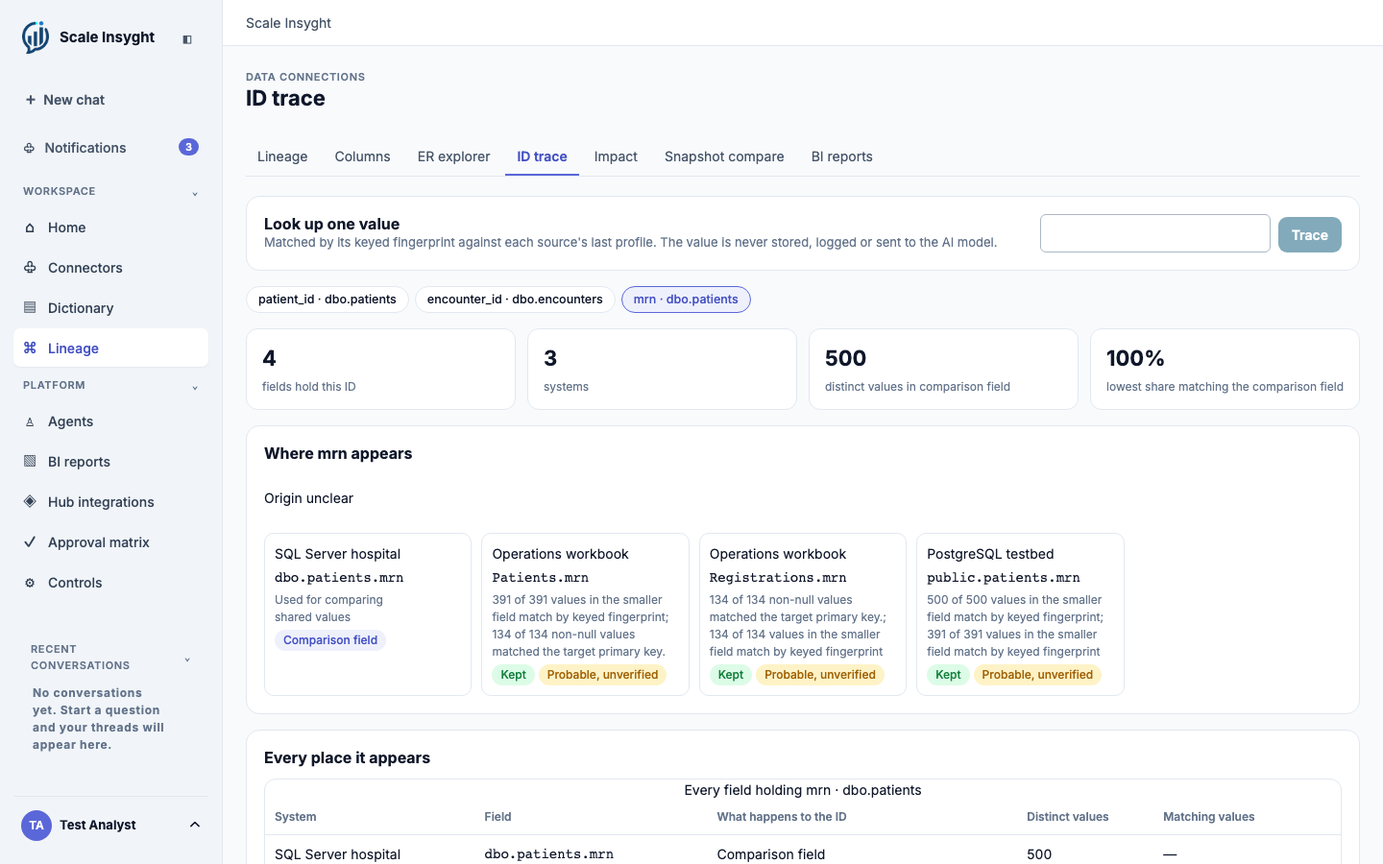
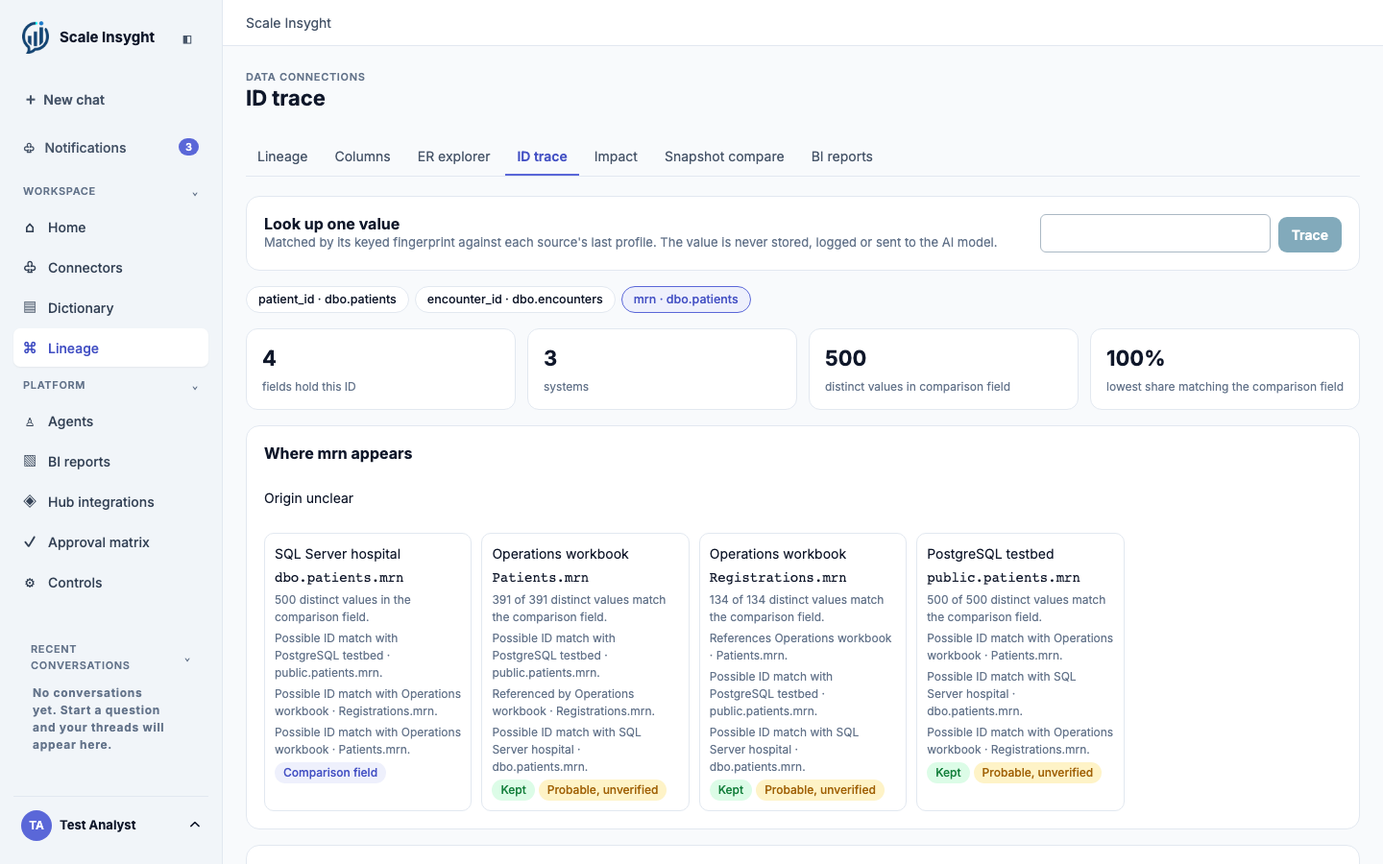
Report actual refresh changes and show field-specific ID evidence

Changed region(s): [[0.1875, 0.6844, 0.8125, 0.9956], [0.1875, 0.9333, 0.2812, 0.9956], [0.8438, 0.9333, 0.9062, 0.9644]]

diff --git a/packages/profiler/src/findings.ts b/packages/profiler/src/findings.ts
@@ -36,10 +36,12 @@ export async function readProfileState(pool: Pool, tenantId: string, connectionI
 /** Compares the state after a run with the state before it and records one finding per change (decision 48): new and
  * dropped tables, added, removed or retyped columns, large row-count changes, newly inferred sensitive columns, and
  * probable relationships and ID matches not yet reviewed. Only names and counts are stored, never values. */
-export async function recordFindings(pool: Pool, input: { tenantId: string; connectionId: string; jobId: string; before: ProfileState; scannedObjects: Set<string> }): Promise<number> {
+export async function recordFindings(pool: Pool, input: { tenantId: string; connectionId: string; jobId: string; before: ProfileState; scannedObjects: Set<string>; checked: number }): Promise<number> {
   const after = await readProfileState(pool, input.tenantId, input.connectionId);
   return withTenant(pool, input.tenantId, async (client) => {
     let count = 0;
+    const changed = new Set<string>();
+    let checked=input.checked;
     const add = async (kind: string, subject: string, detail: Record<string, unknown>, assetId: string | null, assertionId: string | null = null) => {
       const inserted = await client.query(
         `INSERT INTO profiler.findings(tenant_id,connection_id,job_id,kind,subject,detail,asset_id,assertion_id) VALUES($1,$2,$3,$4,$5,$6::jsonb,$7,$8) ON CONFLICT DO NOTHING`,
@@ -49,13 +51,15 @@ export async function recordFindings(pool: Pool, input: { tenantId: string; conn
     if (input.before.hadProfile) {
       for (const [name, table] of after.datasets) {
         const previous = input.before.datasets.get(name);
-        if (!previous) { await add('new_tables', name, { columns: table.columns.length, rows: table.rowCount }, table.assetId); continue; }
+        if (!previous) { changed.add(name); await add('new_tables', name, { columns: table.columns.length, rows: table.rowCount }, table.assetId); continue; }
         if (!input.scannedObjects.has(name)) continue; // unchanged objects are skipped by a nightly run
         const before = new Map(previous.columns.map((column) => [column.name, column.data_type]));
         const now = new Map(table.columns.map((column) => [column.name, column.data_type]));
         const added = [...now.keys()].filter((column) => !before.has(column));
         const removed = [...before.keys()].filter((column) => !now.has(column));
         const retyped = [...now.keys()].filter((column) => before.has(column) && before.get(column) !== now.get(column)).map((column) => ({ column, from: before.get(column), to: now.get(column) }));
+        if (added.length || removed.length || retyped.length ||
+          (previous.rowCount !== null && table.rowCount !== null && previous.rowCount !== table.rowCount)) changed.add(name);
         if (added.length || removed.length || retyped.length) await add('schema_change', name, { change: 'columns', added, removed, retyped }, table.assetId);
         if (table.rowCount === null) {
           await add('data_anomaly', name, { change: 'count_unavailable' }, table.assetId);
@@ -64,7 +68,11 @@ export async function recordFindings(pool: Pool, input: { tenantId: string; conn
           if (Math.abs(change) >= ROW_CHANGE_MIN && Math.abs(change) >= ROW_CHANGE_SHARE * Math.max(previous.rowCount, 1)) await add('data_anomaly', name, { change: 'row_count', before: previous.rowCount, after: table.rowCount }, table.assetId);
         }
       }
-      for (const [name, table] of input.before.datasets) if (!after.datasets.has(name)) await add('schema_change', name, { change: 'dropped' }, table.assetId);
+      for (const [name, table] of input.before.datasets) if (!after.datasets.has(name)) {
+        checked++;
+        changed.add(name);
+        await add('schema_change', name, { change: 'dropped' }, table.assetId);
+      }
     }
     // Newly inferred sensitive columns, to confirm or dismiss. Declared tags need no review.
     const fieldIds = await client.query<{ asset_id: string; qualified_name: string }>(
@@ -88,6 +96,8 @@ export async function recordFindings(pool: Pool, input: { tenantId: string; conn
       await add(row.relationship_type === 'SAME_AS' ? 'id_match' : 'probable_relationship', `${row.from_name} → ${row.to_name}`,
         { confidence: row.confidence === null ? null : Number(row.confidence), explanation: row.explanation }, null, row.assertion_id);
     }
+    await client.query('UPDATE profiler.jobs SET checked_count=$3,changed_count=$4 WHERE tenant_id=$1 AND job_id=$2',
+      [input.tenantId,input.jobId,checked,input.before.hadProfile ? changed.size : null]);
     return count;
   });
 }
@@ -95,7 +105,7 @@ export async function recordFindings(pool: Pool, input: { tenantId: string; conn
 export type FindingRow = { findingId: string; connectionId: string; sourceName: string; jobId: string; jobType: string; kind: string; subject: string; detail: Record<string, unknown>; foundAt: string; status: string; decidedAt: string | null };
 
 /** Findings for the Approval matrix with the latest nightly run's summary. */
-export async function listFindings(pool: Pool, tenantId: string): Promise<{ findings: FindingRow[]; lastNight: { jobIds: string[]; scheduled: boolean; startedAt: string | null; connections: number; profiled: number; listed: number } }> {
+export async function listFindings(pool: Pool, tenantId: string): Promise<{ findings: FindingRow[]; lastNight: { jobIds: string[]; scheduled: boolean; startedAt: string | null; connections: number; profiled: number; listed: number; checked: number | null; changed: number | null } }> {
   return withTenant(pool, tenantId, async (client) => {
     const rows = await client.query<{ finding_id: string; connection_id: string; source_name: string; job_id: string; job_type: string | null; kind: string; subject: string; detail: Record<string, unknown>; found_at: Date; status: string; decided_at: Date | null }>(
       `SELECT f.finding_id,f.connection_id,coalesce(nullif(c.display_name,''),c.connector_type) AS source_name,f.job_id,j.job_type,f.kind,f.subject,f.detail ||
@@ -112,14 +122,16 @@ export async function listFindings(pool: Pool, tenantId: string): Promise<{ find
        LEFT JOIN registry.connections tc ON tc.tenant_id=ta.tenant_id AND tc.connection_id=ta.source_id
        LEFT JOIN profiler.jobs j ON j.tenant_id=f.tenant_id AND j.job_id=f.job_id WHERE f.tenant_id=$1 ORDER BY f.found_at DESC,f.subject LIMIT 500`, [tenantId]);
     // "Last night" is the most recent nightly run of each connection within a day of the newest one.
-    const nightly = await client.query<{ job_id: string; scheduled: boolean; created_at: Date; listed_count: number | null; profiled_count: number | null }>(
+    const nightly = await client.query<{ job_id: string; scheduled: boolean; created_at: Date; listed_count: number | null; profiled_count: number | null; checked_count: number | null; changed_count: number | null }>(
       `WITH newest AS (SELECT scheduled FROM profiler.jobs WHERE tenant_id=$1 AND job_type='nightly' AND state='COMPLETED' ORDER BY created_at DESC LIMIT 1),
-       latest AS(SELECT DISTINCT ON (connection_id) job_id,scheduled,created_at,listed_count,profiled_count FROM profiler.jobs WHERE tenant_id=$1 AND job_type='nightly' AND state='COMPLETED' AND scheduled=(SELECT scheduled FROM newest) ORDER BY connection_id,created_at DESC)
+       latest AS(SELECT DISTINCT ON (connection_id) job_id,scheduled,created_at,listed_count,profiled_count,checked_count,changed_count FROM profiler.jobs WHERE tenant_id=$1 AND job_type='nightly' AND state='COMPLETED' AND scheduled=(SELECT scheduled FROM newest) ORDER BY connection_id,created_at DESC)
        SELECT * FROM latest WHERE created_at>=(SELECT max(created_at) FROM latest)-interval '1 day' ORDER BY created_at`, [tenantId]);
     return {
       findings: rows.rows.map((row) => ({ findingId: row.finding_id, connectionId: row.connection_id, sourceName: row.source_name, jobId: row.job_id, jobType: row.job_type ?? 'profile', kind: row.kind, subject: row.subject, detail: row.detail,
         foundAt: row.found_at.toISOString(), status: row.status, decidedAt: row.decided_at?.toISOString() ?? null })),
       lastNight: { scheduled: nightly.rows.at(-1)?.scheduled ?? false, jobIds: nightly.rows.map((row) => row.job_id), startedAt: nightly.rows.at(-1)?.created_at.toISOString() ?? null, connections: nightly.rows.length,
+        checked: nightly.rows.length && nightly.rows.every(row=>row.checked_count!==null) ? nightly.rows.reduce((sum,row)=>sum+row.checked_count!,0) : null,
+        changed: nightly.rows.length && nightly.rows.every(row=>row.changed_count!==null) ? nightly.rows.reduce((sum,row)=>sum+row.changed_count!,0) : null,
         profiled: nightly.rows.reduce((total, row) => total + Number(row.profiled_count ?? 0), 0), listed: nightly.rows.reduce((total, row) => total + Number(row.listed_count ?? 0), 0) },
     };
   });

diff --git a/apps/web/src/findings.tsx b/apps/web/src/findings.tsx
@@ -2,7 +2,7 @@ import React, { useState } from 'react';
 import { Badge, Button, EmptyState, Table } from '@scaleinsyght/ui';
 
 export type Finding = { findingId: string; connectionId: string; sourceName: string; jobId: string; jobType: string; kind: string; subject: string; detail: Record<string, unknown>; foundAt: string; status: string; decidedAt: string | null };
-export type Findings = { findings: Finding[]; lastNight: { jobIds: string[]; scheduled: boolean; startedAt: string | null; connections: number; profiled: number; listed: number } };
+export type Findings = { findings: Finding[]; lastNight: { jobIds: string[]; scheduled: boolean; startedAt: string | null; connections: number; profiled: number; listed: number; checked?: number | null; changed?: number | null } };
 
 const KIND: Record<string, { label: string; tone: 'primary' | 'good' | 'warn' | 'bad' | 'muted' }> = {
   schema_change: { label: 'Schema change', tone: 'bad' }, data_anomaly: { label: 'Data anomaly', tone: 'warn' }, new_tables: { label: 'New table', tone: 'primary' },
@@ -53,11 +53,14 @@ export function FindingsPanel(props: { data: Findings; decide: (findingId: strin
   const [busy, setBusy] = useState('');
   const [refreshing, setRefreshing] = useState(false);
   const [refreshError, setRefreshError] = useState('');
-  const [group, setGroup] = useState<'Changes' | 'Suggestions'>('Changes');
+  const [selectedGroup, setGroup] = useState<'Changes' | 'Suggestions' | null>(null);
   const lastNight = new Set(props.data.lastNight.jobIds);
-  const shown = props.data.findings.filter((finding) => findingGroup(finding.kind) === group).filter((finding) => tab === 'all' || (tab === 'night' ? lastNight.has(finding.jobId) : !lastNight.has(finding.jobId)));
-  const nightFindings = props.data.findings.filter((finding) => lastNight.has(finding.jobId));
-  const alerts = props.data.findings.filter((finding) => finding.status === 'open').length;
+  const eligible = props.data.findings.filter(finding => tab === 'all' || (tab === 'night' ? lastNight.has(finding.jobId) : !lastNight.has(finding.jobId)));
+  const changes = eligible.filter(finding => findingGroup(finding.kind) === 'Changes');
+  const suggestions = eligible.filter(finding => findingGroup(finding.kind) === 'Suggestions');
+  const group = selectedGroup ?? (changes.length || !suggestions.length ? 'Changes' : 'Suggestions');
+  const shown = group === 'Changes' ? changes : suggestions;
+  const open = (items: Finding[]) => items.filter(finding => finding.status === 'open').length;
   const act = async (findingId: string, decision: 'approved' | 'rejected') => { setBusy(findingId); try { await props.decide(findingId, decision); } finally { setBusy(''); } };
   const pending = shown.filter(finding => finding.status === 'open');
   const approveGroup = async () => {
@@ -69,10 +72,12 @@ export function FindingsPanel(props: { data: Findings; decide: (findingId: strin
   return <div className="findings">
     <article className="nightly-summary">
       <div><h2>{props.data.lastNight.scheduled ? "Last night's run" : 'Latest refresh'}</h2>{props.data.lastNight.startedAt
-        ? <p>{count(props.data.lastNight.connections)} {props.data.lastNight.connections === 1 ? 'source' : 'sources'} refreshed at {new Date(props.data.lastNight.startedAt).toLocaleString('en-US', { dateStyle: 'medium', timeStyle: 'short' })}: {count(props.data.lastNight.profiled)} objects profiled of {count(props.data.lastNight.listed)} listed.</p>
+        ? <p>{count(props.data.lastNight.connections)} {props.data.lastNight.connections === 1 ? 'source' : 'sources'} refreshed at {new Date(props.data.lastNight.startedAt).toLocaleString('en-US', { dateStyle: 'medium', timeStyle: 'short' })}: {props.data.lastNight.checked == null ? 'Comparison counts unavailable' : `${count(props.data.lastNight.checked)} objects checked, ${props.data.lastNight.changed == null ? 'change count unavailable' : `${count(props.data.lastNight.changed)} changed`}`}.</p>
         : <p>No nightly refresh has run yet. Each source is refreshed once a day after it is added.</p>}</div>
-      <Badge tone={alerts ? 'bad' : 'good'}>{alerts} open {alerts === 1 ? 'alert' : 'alerts'}</Badge>
-      <div className="nightly-stats"><div><strong>{count(nightFindings.length)}</strong><span>findings in this refresh</span></div><div><strong>{count(alerts)}</strong><span>waiting for review</span></div><div><strong>{count(props.data.findings.filter((finding) => finding.status !== 'open').length)}</strong><span>reviewed</span></div></div>
+      <div className="nightly-stats">
+        <Badge tone="warn">{count(open(changes))} Changes to review</Badge>
+        <Badge tone="muted">{count(open(suggestions))} Suggestions</Badge>
+      </div>
       {props.refreshNow && <Button size="small" disabled={refreshing} onClick={() => {
         setRefreshing(true); setRefreshError('');
         props.refreshNow!().catch((error: unknown) => setRefreshError(error instanceof Error ? error.message : 'The refresh could not be completed.')).finally(() => setRefreshing(false));
@@ -81,16 +86,16 @@ export function FindingsPanel(props: { data: Findings; decide: (findingId: strin
     </article>
     <p>Approving a finding records your review and leaves its verification status unchanged.</p>
     <div className="findings-tabs" role="tablist" aria-label="Findings">{([['night', 'Latest refresh'], ['earlier', 'Earlier'], ['all', 'All']] as const).map(([key, label]) =>
-      <Button key={key} role="tab" size="small" aria-selected={tab === key} className={`findings-tab${tab === key ? ' on' : ''}`} onClick={() => setTab(key)}>{label}</Button>)}</div>
+      <Button key={key} role="tab" size="small" aria-selected={tab === key} className={`findings-tab${tab === key ? ' on' : ''}`} onClick={() => {setTab(key);setGroup(null);}}>{label}</Button>)}</div>
     <div role="tablist" aria-label="Finding group">
-      {(['Changes', 'Suggestions'] as const).map(name => <Button key={name} role="tab" aria-selected={name === group} onClick={() => setGroup(name)}>{name}</Button>)}
+      {(['Changes', 'Suggestions'] as const).map(name => <Button key={name} role="tab" aria-selected={name === group} onClick={() => setGroup(name)}>{name} {count(name === 'Changes' ? changes.length : suggestions.length)}</Button>)}
     </div>
-    <Button size="small" disabled={Boolean(busy) || !pending.length} onClick={() => void approveGroup()}>Approve all {group.toLowerCase()}</Button>
+    {pending.length>0&&<Button size="small" disabled={Boolean(busy)} onClick={() => void approveGroup()}>Approve all {group.toLowerCase()}</Button>}
     {shown.length ? <Table caption="Findings" headers={['Finding', 'Kind', 'When found', 'Affects', '']} rows={shown.map((finding) => [
       <span key="t">{findingText(finding)}</span>, <Badge key="k" tone={KIND[finding.kind]?.tone ?? 'muted'}>{KIND[finding.kind]?.label ?? finding.kind}</Badge>,
       new Date(finding.foundAt).toLocaleString('en-US', { dateStyle: 'medium', timeStyle: 'short' }), findingSources(finding),
       finding.status === 'open' ? <span key="a" className="findings-actions"><Button size="small" variant="primary" disabled={Boolean(busy)} onClick={() => void act(finding.findingId, 'approved')}>{finding.kind === 'sensitive_column' ? 'Confirm' : 'Approve'}</Button><Button size="small" disabled={Boolean(busy)} onClick={() => void act(finding.findingId, 'rejected')}>{finding.kind === 'sensitive_column' ? 'Dismiss' : 'Reject'}</Button></span>
         : <Badge key="s" tone={finding.status === 'approved' ? 'good' : 'muted'}>{finding.status === 'approved' ? (finding.kind === 'sensitive_column' ? 'Confirmed' : 'Approved') : (finding.kind === 'sensitive_column' ? 'Dismissed' : 'Rejected')}</Badge>])} />
-      : <EmptyState title={tab === 'night' ? 'Nothing found in this refresh' : 'No findings here'} description="Findings appear when a refresh finds a schema change, a large row-count change, a new table, a sensitive column, a probable relationship or an ID match." />}
+      : <EmptyState title={`No ${group.toLowerCase()}${tab === 'night' ? ' in this refresh' : ''}`} description="Findings appear when a refresh finds a schema change, a large row-count change, a new table, a sensitive column, a probable relationship or an ID match." />}
   </div>;
 }

diff --git a/packages/graph/src/id-trace.ts b/packages/graph/src/id-trace.ts
@@ -19,7 +19,8 @@ export async function listIdEntities(pool: Pool, tenantId: string): Promise<IdEn
        FROM graph.id_fields i JOIN graph.assets a ON a.tenant_id=i.tenant_id AND a.asset_id=i.asset_id AND a.active
        JOIN registry.connections c ON c.tenant_id=a.tenant_id AND c.connection_id=a.source_id AND c.status='active'
        WHERE i.tenant_id=$1 AND i.active ORDER BY i.field_name`, [tenantId]);
-    const ids = fields.rows.map((row) => row.asset_id);
+    const fieldById = new Map(fields.rows.map(field => [field.asset_id, field]));
+    const ids = [...fieldById.keys()];
     const links = await client.query<{ from_id: string; to_id: string; relationship_type: string; method: string; explanation: string | null; confidence: string | null }>(
       `SELECT r.from_asset_id AS from_id,r.to_asset_id AS to_id,r.relationship_type,a.evidence_method AS method,a.explanation,a.confidence_score::text AS confidence
        FROM graph.relationships r JOIN graph.assertions a ON a.tenant_id=r.tenant_id AND a.relationship_id=r.relationship_id AND a.valid_to IS NULL AND a.review_status NOT IN ('rejected','stale')
@@ -55,7 +56,15 @@ export async function listIdEntities(pool: Pool, tenantId: string): Promise<IdEn
             // Inside a source fields are joined by trusted references; reaching another source always crosses a probable match.
             probable: row.source_id !== home.source_id,
             sharedWithHome: row.format_pattern === 'too_many_values' ? null : sharedBy.get(row.asset_id) ?? 0,
-            evidence: evidence.map((link) => ({ method: link.relationship_type === 'SAME_AS' ? `${link.method} SAME_AS` : `${link.method} reference`, explanation: link.explanation, confidence: link.confidence === null ? null : Number(link.confidence) })) };
+            evidence: evidence.map(link => {
+              const other = fieldById.get(link.from_id === row.asset_id ? link.to_id : link.from_id)!;
+              const target = `${other.source_name} · ${other.field_name}`;
+              const method = link.relationship_type === 'SAME_AS' ? `${link.method} SAME_AS` : `${link.method} reference`;
+              const explanation = link.relationship_type === 'SAME_AS'
+                ? `Possible ID match with ${target}.`
+                : link.from_id === row.asset_id ? `References ${target}.` : `Referenced by ${target}.`;
+              return {method, explanation, confidence: link.confidence === null ? null : Number(link.confidence)};
+            }) };
         }).sort((a, b) => Number(b.role === 'created') - Number(a.role === 'created') || a.sourceName.localeCompare(b.sourceName) || a.field.localeCompare(b.field)) });
     }
     return entities.sort((a, b) => b.fields.length - a.fields.length || a.label.localeCompare(b.label));

diff --git a/tests/e2e/real-product-s5-id-trace.spec.ts b/tests/e2e/real-product-s5-id-trace.spec.ts
@@ -39,6 +39,25 @@ test('s5_id_trace_groups_patient_encounter_and_mrn_ids_across_three_systems_and_
     await page.locator('.id-picker .ui-button').filter({ hasText: new RegExp(`^${expected.fields[0]!.field.split('.').at(-1)!} · `) }).click();
     await expect(page.locator('.id-tiles div').filter({ hasText: 'fields hold this ID' }).locator('b')).toHaveText(String(expected.fields.length));
     const table = page.locator('.lineage-detail table');
+    const cards = page.locator('.id-path li');
+    const comparison = cards.filter({has:page.getByText('Comparison field',{exact:true})});
+    const sourceLabels: Record<string,string> = {postgres:'PostgreSQL testbed',sql_server:'SQL Server hospital',excel:'Operations workbook'};
+    const homeSourceName=await comparison.locator('.faint').textContent();
+    const homeSource=Object.keys(sourceLabels).find(source=>sourceLabels[source]===homeSourceName);
+    const homeKey=`${homeSource}:${await comparison.locator('code').textContent()}`;
+    await expect(cards).toHaveCount(expected.fields.length);
+    for (const field of expected.fields) {
+      const card = cards.filter({has:page.locator('code').and(page.getByText(field.field,{exact:true}))})
+        .filter({has:page.getByText(sourceLabels[field.source]!,{exact:true})});
+      const fieldKey=`${field.source}:${field.field}`;
+      const distinct=field.distinct.toLocaleString('en-US');
+      const pair=expected.pairs.find(item=>(item.left===homeKey&&item.right===fieldKey)||(item.right===homeKey&&item.left===fieldKey));
+      if (fieldKey!==homeKey) expect(pair, `Truth for ${fieldKey} compared with ${homeKey}`).toBeDefined();
+      const coverage=fieldKey===homeKey ? `${distinct} distinct values in the comparison field.`
+        : `${pair!.shared.toLocaleString('en-US')} of ${distinct} distinct values match the comparison field.`;
+      await expect(card.getByLabel('Field coverage')).toHaveText(coverage);
+      await expect(card).not.toContainText('.;');
+    }
     for (const field of expected.fields) await expect(table.locator('tr').filter({ has: page.locator('code', { hasText: new RegExp(`^${field.field.replaceAll('.', '\\.')}$`) }) })).toContainText(field.distinct.toLocaleString('en-US'));
     await page.screenshot({ path: `docs/acceptance/s5/id-trace-${name}.png`, fullPage: true });
   }

diff --git a/apps/web/src/id-trace.tsx b/apps/web/src/id-trace.tsx
@@ -43,7 +43,12 @@ export function IdTrace(props: { entities: IdEntity[]; lookup: (value: string) =
     <article className="lineage-detail"><h2>Where {home.field.slice(home.field.lastIndexOf('.') + 1)} appears</h2>
       <p title="Matching values show that sources share an ID. They do not show where it was first created. The field with the largest measured set is used for comparison.">Origin unclear</p>
       <ol className="id-path">{ordered.map((field) => <li key={field.assetId}><div className="faint">{field.sourceName}</div><FieldName field={field.field} />
-        <p className="muted">{field.role === 'created' ? 'Used for comparing shared values' : [...new Set(field.evidence.map((item) => item.explanation ?? item.method).filter(Boolean))].slice(0, 2).join('; ') || 'Matches the comparison field'}</p>
+        <p className="muted" aria-label="Field coverage">{field.role === 'created'
+          ? `${count(field.distinct)} distinct values in the comparison field.`
+          : field.sharedWithHome === null ? 'Too many values to fingerprint.'
+          : `${count(field.sharedWithHome)} of ${count(field.distinct)} distinct values match the comparison field.`}</p>
+        {[...new Set(field.evidence.map(item => (item.explanation ?? item.method).trim().replace(/[.;]+$/, '')).filter(Boolean))].map(sentence =>
+          <p className="muted" key={sentence}>{sentence}.</p>)}
         <span className="id-badges"><Badge tone={field.role === 'key changed' ? 'warn' : field.role === 'created' ? 'primary' : 'good'}>{roleText[field.role]}</Badge>{field.probable && <Badge tone="warn">Probable, unverified</Badge>}</span></li>)}</ol></article>
     <article className="lineage-detail"><h2>Every place it appears</h2>
       <Table caption={`Every field holding ${entity.label}`} headers={['System', 'Field', 'What happens to the ID', 'Distinct values', 'Matching values']} rows={ordered.map((field) => [field.sourceName, <FieldName key="f" field={field.field} />,

diff --git a/tests/e2e/real-product-s6-nightly.spec.ts b/tests/e2e/real-product-s6-nightly.spec.ts
@@ -41,6 +41,14 @@ test('s6_refresh_from_the_approval_matrix_finds_source_changes_and_a_dismissal_i
   await expect(page.getByRole('heading', { name: 'Latest refresh' })).toBeVisible();
   await page.getByRole('button', { name: 'Run a refresh now' }).click();
   await expect(page.locator('.nightly-summary')).toContainText('1 source refreshed');
+  await expect(page.locator('.nightly-summary')).toContainText('4 objects checked, 4 changed');
+  await expect(page.getByRole('tab',{name:'Changes 4',exact:true})).toHaveAttribute('aria-selected','true');
+  await expect(page.getByText('4 Changes to review',{exact:true})).toBeVisible();
+  await expect(page.getByText('0 Suggestions',{exact:true})).toBeVisible();
+  await page.getByRole('tab',{name:'Suggestions 0',exact:true}).click();
+  await expect(page.getByText('No suggestions in this refresh',{exact:true})).toBeVisible();
+  await expect(page.getByRole('button',{name:'Approve all suggestions'})).toHaveCount(0);
+  await page.getByRole('tab',{name:'Changes 4',exact:true}).click();
   const rows = page.locator('.findings table tbody tr');
   await expect(rows.filter({ hasText: 'public.shop_orders changed: added channel.' })).toContainText('Schema change');
   await expect(rows.filter({ hasText: 'public.legacy_codes was dropped from the source.' })).toContainText('Schema change');
@@ -49,7 +57,7 @@ test('s6_refresh_from_the_approval_matrix_finds_source_changes_and_a_dismissal_i
   await page.screenshot({ path: 'docs/acceptance/s6/approval-matrix.png', fullPage: true });
 
   await page.getByRole('tab', { name: 'All' }).click();
-  await page.getByRole('tab', { name: 'Suggestions' }).click();
+  await page.getByRole('tab', { name: /^Suggestions \d+$/ }).click();
   const sensitive = rows.filter({ hasText: 'public.customers.contact_email looks personal' });
   await sensitive.getByRole('button', { name: 'Dismiss' }).click();
   await expect(sensitive).toContainText('Dismissed');

diff --git a/apps/web/src/id-trace-copy.test.ts b/apps/web/src/id-trace-copy.test.ts
@@ -7,11 +7,16 @@ it('shows equal coverage as a match without claiming either source created the I
   const common = { connectorType:'postgres', distinct:100, tagged:true, format:'integer', probable:false, evidence:[] };
   const entity: IdEntity = {entityId:'id',label:'Patient ID',home:'a',fields:[
     {...common,assetId:'a',field:'public.patients.patient_id',sourceId:'pg',sourceName:'PostgreSQL',role:'created',sharedWithHome:null},
-    {...common,assetId:'b',field:'dbo.patients.patient_id',sourceId:'sql',sourceName:'SQL Server',role:'kept',sharedWithHome:100},
+    {...common,assetId:'b',field:'dbo.patients.patient_id',sourceId:'sql',sourceName:'SQL Server',role:'kept',sharedWithHome:100,evidence:[
+      {method:'inferred',explanation:'Matches the warehouse.',confidence:1},
+      {method:'inferred',explanation:'Matches the warehouse;',confidence:1},
+    ]},
   ]};
   const html = renderToStaticMarkup(createElement(IdTrace,{entities:[entity],lookup:async()=>[]}));
   expect(html).toContain('Origin unclear');
   expect(html).toContain('100 of 100 (100%)');
   expect(html).toContain('patients.<wbr/>patient_id');
   expect(html).not.toContain('Where the ID is created');
+  expect(html.match(/Matches the warehouse\./g)).toHaveLength(1);
+  expect(html).not.toContain('.;');
 });

diff --git a/apps/web/src/findings-review.test.ts b/apps/web/src/findings-review.test.ts
@@ -1,0 +1,21 @@
+import { createElement } from 'react';
+import { renderToStaticMarkup } from 'react-dom/server';
+import { expect, it } from 'vitest';
+import { FindingsPanel, type Finding } from './findings.js';
+
+it('selects Suggestions when that is the only populated tab in the latest refresh', () => {
+  const suggestion: Finding = {
+    findingId:'suggestion',connectionId:'source',sourceName:'Warehouse',jobId:'latest',jobType:'nightly',
+    kind:'id_match',subject:'left.id → right.id',detail:{},foundAt:'2026-11-25T00:00:00Z',status:'open',decidedAt:null,
+  };
+  const html=renderToStaticMarkup(createElement(FindingsPanel,{
+    data:{findings:[suggestion,{...suggestion,findingId:'earlier',jobId:'earlier',kind:'new_tables'}],
+      lastNight:{jobIds:['latest'],scheduled:false,startedAt:suggestion.foundAt,connections:1,profiled:18,listed:18,checked:18,changed:0}},
+    decide:async()=>{},
+  }));
+  expect(html).toMatch(/aria-selected="true"[^>]*>Suggestions 1</);
+  expect(html).toContain('Changes 0');
+  expect(html).toContain('18 objects checked, 0 changed');
+  expect(html).toContain('Approve all suggestions');
+  expect(html).not.toContain('Approve all changes');
+});

diff --git a/packages/profiler/src/index.ts b/packages/profiler/src/index.ts
@@ -270,7 +270,7 @@ export async function runProfile(
   const definitions = await captureDefinitions(pool, input);
   const masterKey = process.env.ARTIFACT_MASTER_KEY ? Buffer.from(process.env.ARTIFACT_MASTER_KEY, 'base64') : undefined;
   const ids = await runIdAgent(pool, { ...input, ...(masterKey ? { masterKey } : {}) });
-  const findings = await recordFindings(pool, { tenantId: input.tenantId, connectionId: input.connectionId, jobId, before, scannedObjects: new Set(profiles.map(({ object }) => object.qualifiedName)) });
+  const findings = await recordFindings(pool, { tenantId: input.tenantId, connectionId: input.connectionId, jobId, before, checked: discovery.objects.length + discovery.unchangedObjects.length, scannedObjects: new Set(profiles.map(({ object }) => object.qualifiedName)) });
   // Every profiled database or workbook connection is refreshed nightly; the first refresh is a day after activation.
   await withTenant(pool, input.tenantId, (client) => client.query(
     `INSERT INTO profiler.nightly_schedules(tenant_id,connection_id,next_run_at) SELECT $1,$2,clock_timestamp()+interval '1 day'

diff --git a/packages/db/migrations/038_profile_comparison_totals.ts b/packages/db/migrations/038_profile_comparison_totals.ts
@@ -1,0 +1,9 @@
+import type { MigrationBuilder } from 'node-pg-migrate';
+
+export function up(pgm: MigrationBuilder): void {
+  pgm.sql('ALTER TABLE profiler.jobs ADD COLUMN checked_count integer, ADD COLUMN changed_count integer');
+}
+
+export function down(pgm: MigrationBuilder): void {
+  pgm.sql('ALTER TABLE profiler.jobs DROP COLUMN checked_count, DROP COLUMN changed_count');
+}

diff --git a/docs/phases/handover.md b/docs/phases/handover.md
@@ -83,3 +83,10 @@ Updated by Claude Code after #35. S7 (Codex) and S8 (Claude Code) are merged. Th
 - Commit `7943de2` shows “Origin unclear” because matching values do not establish direction. Names have dot breakpoints and tooltips. A render test for equal coverage passed. Browser layout verification is pending.
 - Commit `8b6945f` reserves separate space for badges and routes edges through lane gutters. Both path tests passed. Browser coverage for badge clipping and the full merge gates are pending.
 - Connectors feedback: review-feedback commit `79ecdb8` shows specific connector type labels and hides gateway controls. Typecheck passed and the S4 walkthrough has regression assertions awaiting execution. Commit `bb4f5a2` adds the dedicated dbt card and import summary (migration 034), with re-upload to the existing connection. After redeploy, re-import the same artifacts into Riverside’s existing dbt connection to populate the summary. S4 browser assertions are pending.
+
+## Post-S7 review follow-up
+
+- Branch `review-followup` in `/tmp/scaleinsyght-review-followup`, rebased on `1922537`. Migration 038 stores checked and changed counts per refresh. Historical jobs without comparison totals show that the counts are unavailable.
+- Approval matrix scopes heading counts, tab counts and rows to the selected refresh period. Its default group is populated when possible, and empty groups offer no bulk approval.
+- ID trace shows each field's measured overlap and distinct count. Relationship sentences name the other endpoint without borrowing its counts. The walkthrough checks every card against the independently generated ID truth.
+- Focused S5 and S6 browser checks and both UI render tests passed. Full gates and the three testbed passes are running on si_test via ports 3340/3341/4290. Deployment awaits those gates and green CI.
